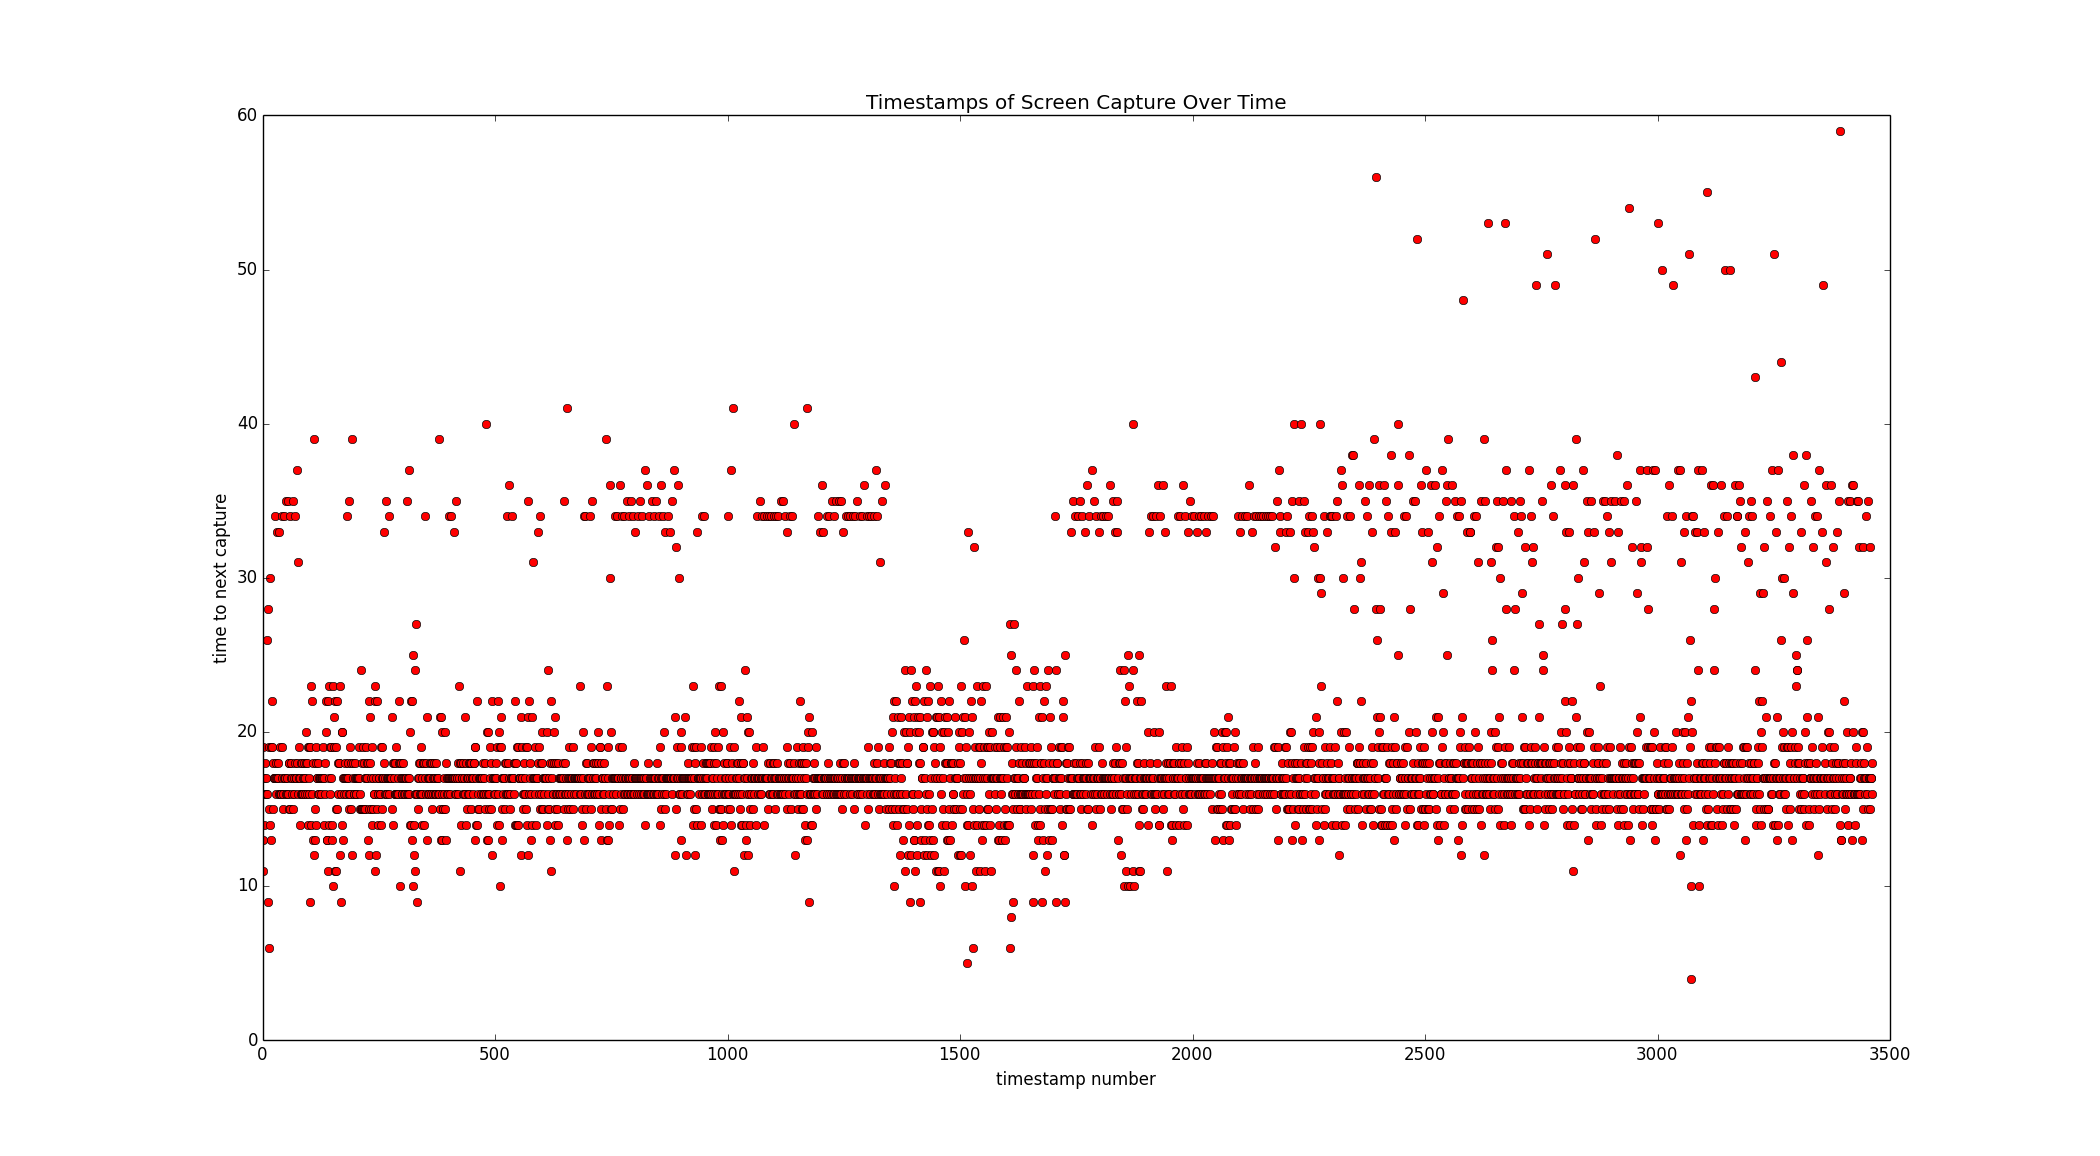
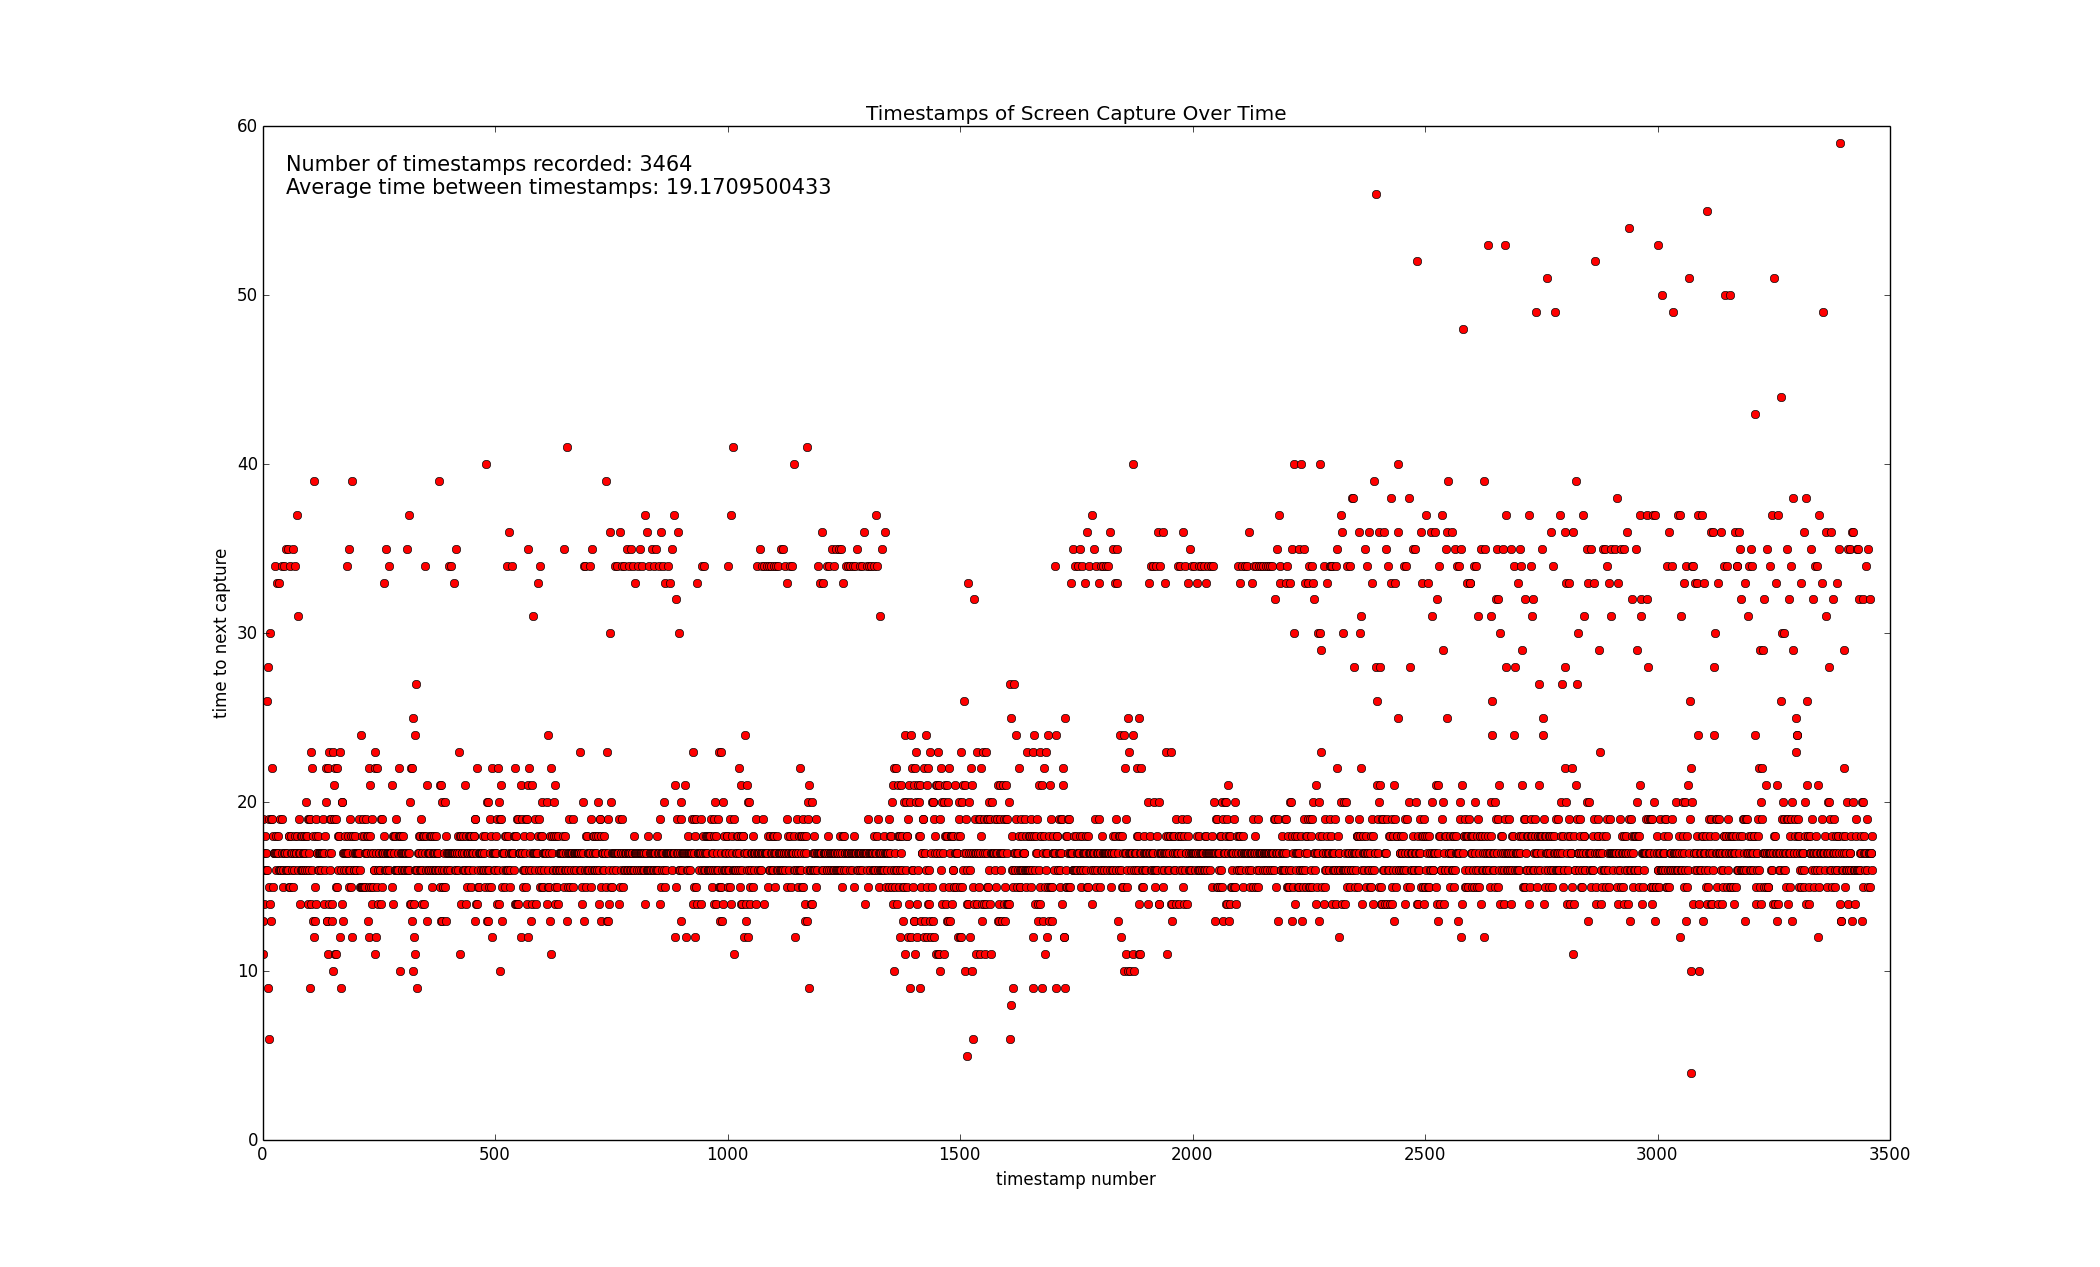
Converted image representation into custom class. Began implementing  RTEP.

diff --git a/app/src/main/java/info/jkjensen/castex_protocol/MainActivity.kt b/app/src/main/java/info/jkjensen/castex_protocol/MainActivity.kt
@@ -2,7 +2,9 @@ package info.jkjensen.castex_protocol
 
 import android.Manifest.permission.READ_EXTERNAL_STORAGE
 import android.Manifest.permission.WRITE_EXTERNAL_STORAGE
+import android.content.Context
 import android.content.Intent
+import android.content.SharedPreferences
 import android.graphics.Bitmap
 import android.graphics.PixelFormat
 import android.media.Image
@@ -20,6 +22,9 @@ import kotlinx.android.synthetic.main.activity_main.*
 import org.jetbrains.anko.mediaProjectionManager
 import java.io.FileOutputStream
 import java.lang.Thread.sleep
+import java.net.InetAddress
+import java.net.InetSocketAddress
+import java.net.MulticastSocket
 import java.util.*
 
 
@@ -33,7 +38,7 @@ class MainActivity : AppCompatActivity() {
     }
 
     // Image FIFO buffer for capture -> stream
-    private var images:ArrayList<Bitmap> = arrayListOf()
+    private var images:ArrayList<RTEFrame> = arrayListOf()
     // Display metrics for screen attributes
     private var metrics:DisplayMetrics? = null
     // Used to feed captured frames to our buffer
@@ -42,16 +47,34 @@ class MainActivity : AppCompatActivity() {
     private var fos:FileOutputStream? = null
     // Used to track timestamps during execution
     private var startTime = System.currentTimeMillis()
+    // Socket used as a datastream
+    private var rteSock = MulticastSocket(null)
+    private var group1: InetAddress? = null
+
+
     /**
      * Tracks the previous bitmap displayed so that it may be recycled immediately when it is no
      * longer needed
      */
-    private var prevBitmap:Bitmap? = null
+    private var prevImage:RTEFrame? = null
 
     override fun onCreate(savedInstanceState: Bundle?) {
         super.onCreate(savedInstanceState)
 
         setContentView(R.layout.activity_main)
+
+        val sharedPreferences: SharedPreferences = getSharedPreferences("appConfig", Context.MODE_PRIVATE)
+        val editor: SharedPreferences.Editor = sharedPreferences.edit()
+        editor.putBoolean(CastexPreferences.KEY_DEBUG, CastexPreferences.DEBUG)
+        editor.putBoolean(CastexPreferences.KEY_MULTICAST, CastexPreferences.MULTICAST)
+        editor.putBoolean(CastexPreferences.KEY_TCP, CastexPreferences.TCP)
+        editor.putInt(CastexPreferences.KEY_PORT_OUT, CastexPreferences.PORT_OUT)
+        editor.apply()
+
+        rteSock.reuseAddress = true
+        rteSock.bind(InetSocketAddress(CastexPreferences.PORT_OUT))
+        group1 = InetAddress.getByName("192.168.43.110") // Samsung Galaxy S7
+
         startStreamButton.setOnClickListener {
 
             // Android M+ require us to explicitly ask for overlay permissions.
@@ -112,7 +135,7 @@ class MainActivity : AppCompatActivity() {
                     val rowPadding = rowStride - pixelStride * image!!.width
                     bitmap = Bitmap.createBitmap(image!!.width + rowPadding/pixelStride, image!!.height, Bitmap.Config.ARGB_8888)
                     bitmap!!.copyPixelsFromBuffer(buffer)
-                    images.add(bitmap!!)
+                    images.add(RTEFrame(bitmap!!))
 
 
                 } catch (e: Exception) {
@@ -126,7 +149,7 @@ class MainActivity : AppCompatActivity() {
 
             Thread(Runnable {
                 while (true) {
-                    sleep(20)
+                    sleep(5)
                     openScreenshot()
 
                 }
@@ -145,6 +168,7 @@ class MainActivity : AppCompatActivity() {
      * Pops the oldest frame from the FIFO buffer and displays it on the imageview.
      */
     @Synchronized private fun openScreenshot() {
+        var currentImage: RTEFrame? = null
         if(images.isEmpty()){
             Log.d(TAG, "Image array is empty")
             return
@@ -154,12 +178,15 @@ class MainActivity : AppCompatActivity() {
                 return@Runnable
             }
             Log.d(TAG, "Updating imageview")
-            val bitmap = images.removeAt(0)
-            myimageview.setImageBitmap(bitmap)
-            if(prevBitmap != null){
-                prevBitmap!!.recycle()
+            currentImage = images.removeAt(0)
+            myimageview.setImageBitmap(currentImage?.bitmap)
+            if(prevImage != null){
+                prevImage!!.bitmap.recycle()
             }
-            prevBitmap = bitmap
+            prevImage = currentImage
         })
+
+        // Send out frames on UDP socket.
+        rteSock.send(RTEPacketizer.packetize(currentImage!!, group1!!))
     }
 }

diff --git a/app/src/main/java/info/jkjensen/castex_protocol/CastexPreferences.kt b/app/src/main/java/info/jkjensen/castex_protocol/CastexPreferences.kt
@@ -1,0 +1,31 @@
+package info.jkjensen.castex_protocol
+
+/**
+ * Created by jk on 10/31/17.
+ */
+class CastexPreferences{
+    companion object {
+        /** Enables multicast, allowing a one-to-many transmission.
+         * NOTE: This complicates the host-device operation if the host device is acting as AP.
+         * Also, most public and private AP's don't allow multicast without additional network
+         * configuration.
+         */
+        public val KEY_MULTICAST = "multicast"
+        public val MULTICAST = false
+
+        /**
+         * Enables the use of TCP sockets instead of UDP. This will likely improve stream quality
+         * but severely increase network latency.
+         * NOTE: This setting holds higher priority than the multicast setting, meaning that if both
+         * are set the transmission will be made via TCP.
+         */
+        public val KEY_TCP = "tcp"
+        public val TCP = false
+
+        public val KEY_DEBUG = "debug"
+        public val DEBUG = false
+
+        val KEY_PORT_OUT = "port out"
+        val PORT_OUT = 1234
+    }
+}

diff --git a/app/src/main/java/info/jkjensen/castex_protocol/RTEPacketizer.kt b/app/src/main/java/info/jkjensen/castex_protocol/RTEPacketizer.kt
@@ -1,0 +1,23 @@
+package info.jkjensen.castex_protocol
+
+import android.graphics.Bitmap
+import java.io.ByteArrayOutputStream
+import java.net.DatagramPacket
+import java.net.InetAddress
+
+/**
+ * Created by jk on 2/26/18.
+ * Packetizes frame data into UDP packets for transmission to receiving devices.
+ */
+class RTEPacketizer{
+
+    companion object {
+
+        fun packetize(rteFrame:RTEFrame, group: InetAddress):DatagramPacket{
+            val baos = ByteArrayOutputStream()
+            rteFrame.bitmap.compress(Bitmap.CompressFormat.JPEG, 100, baos)
+            val outputData = baos.toByteArray()
+            return DatagramPacket(outputData, outputData.size, group, CastexPreferences.PORT_OUT)
+        }
+    }
+}

diff --git a/app/src/main/java/info/jkjensen/castex_protocol/RTEFrame.kt b/app/src/main/java/info/jkjensen/castex_protocol/RTEFrame.kt
@@ -1,0 +1,11 @@
+package info.jkjensen.castex_protocol
+
+import android.graphics.Bitmap
+
+/**
+ * Created by jk on 2/26/18.
+ * Just a filler class for now, may be necessary for future use by adding timestamps.
+ */
+class RTEFrame(bitmap: Bitmap) {
+    var bitmap = bitmap
+}

diff --git a/plotTiming.py b/plotTiming.py
@@ -4,7 +4,7 @@ import numpy as np
 timingFile = open('screenCaptureTiming.txt', 'r')
 times = timingFile.read().split('\n')
 times = filter(lambda x: x is not '', times)
-# print(times)
+print('Number of timestamps recorded: ' + str(len(times)))
 
 # Convert to floats
 timesflt = map(float, times) 
@@ -22,9 +22,11 @@ plt.title('Timestamps of Screen Capture Over Time')
 plt.xlabel('timestamp number')
 plt.ylabel('time to next capture')
 
-plt.show()
 # print(timesflt)
 avgTimeBetweenTS = reduce((lambda x, y: x + y), diffs)
 avgTimeBetweenTS = avgTimeBetweenTS/len(diffs)
 print('Average time between timestamps: ' +str(avgTimeBetweenTS))
+
+plt.text(50, 56, 'Number of timestamps recorded: ' + str(len(times)) + '\n' +'Average time between timestamps: ' +str(avgTimeBetweenTS), fontsize=15)
+plt.show()
 
